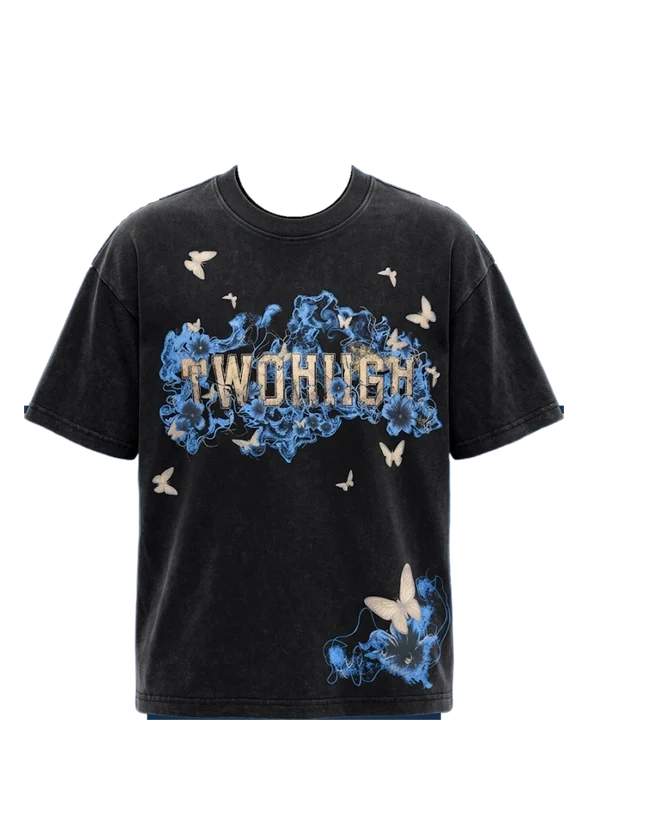
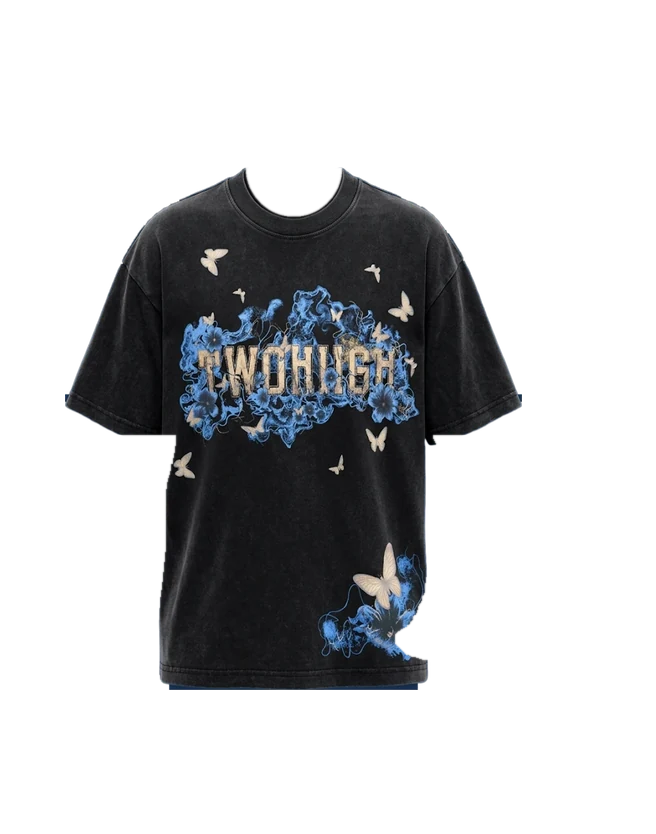
Fit the carousel pieces to the model's body
- Garments are slimmer and end at the hip instead of hanging wide
- The model's forearms and the hand in his pocket now sit in front of
  the fabric (those areas are cut from the worn layer and restored by
  the back layer when the piece is off the model)
- Garment and model boxes share one centre and one scale at every
  breakpoint, so the fit is identical on phone, tablet and desktop

diff --git a/jacket-carousel/jacket-carousel.css b/jacket-carousel/jacket-carousel.css
@@ -94,12 +94,14 @@
   pointer-events: none;
 }
 
+/* Same centre and width as the model box; 834/812 taller so the garment and
+   model images always render at exactly the same scale. */
 .jc__item {
   position: absolute;
-  top: 57.5%;
+  top: 50%;
   left: 50%;
   width: min(45vh, 560px);
-  height: 88vh;
+  height: 90.4vh;
   transform: translate(-50%, -50%);
   display: flex;
   align-items: center;
@@ -116,11 +118,13 @@
   object-fit: contain;
   display: block;
   filter: drop-shadow(0 20px 40px rgba(0, 0, 0, .15));
-  transform: translateY(-8%) translateX(3%);
+  /* offset of the garment canvas from the model image, in garment-image % */
+  transform: translate(3.05%, 3.12%);
 }
 
-/* Inside back collar + label. Hidden while the piece is on the model (so his
-   neck comes through the collar), shown when the piece is off to the side. */
+/* The parts hidden while the piece is on the model: inside back collar + label
+   (so his neck comes through) and the fabric behind his forearms and hands
+   (so they sit in front). Shown when the piece is off to the side. */
 .jc__item .jc__back {
   position: absolute;
   left: 50%;
@@ -170,7 +174,7 @@
   .jc__copy h1 { font-size: 26px; }
   .jc__copy p { font-size: 10px; }
   .jc__model, .jc__item { width: min(55vh, 400px); height: 82vh; }
-  .jc__item img { transform: translateY(-7%) translateX(2%); }
+  .jc__item { height: 84.2vh; }
   .jc__label { bottom: 20px; font-size: 9px; }
   .jc__counter { bottom: 20px; font-size: 10px; }
   .jc__counter-line { width: 40px; }
@@ -187,8 +191,6 @@
   .jc__copy h1 { font-size: 30px; }
   .jc__copy h1 br { display: none; }
   .jc__copy p { font-size: 12px; margin-top: 8px; }
-  .jc__model, .jc__item { width: min(86vw, 46vh); height: 64vh; }
-  .jc__model { top: 60%; }
-  /* keeps the same jacket-to-model offset as desktop, scaled to the smaller height */
-  .jc__item  { top: calc(60% + 5.5vh); }
+  .jc__model, .jc__item { width: min(86vw, 46vh); height: 64vh; top: 60%; }
+  .jc__item { height: 65.7vh; }
 }
